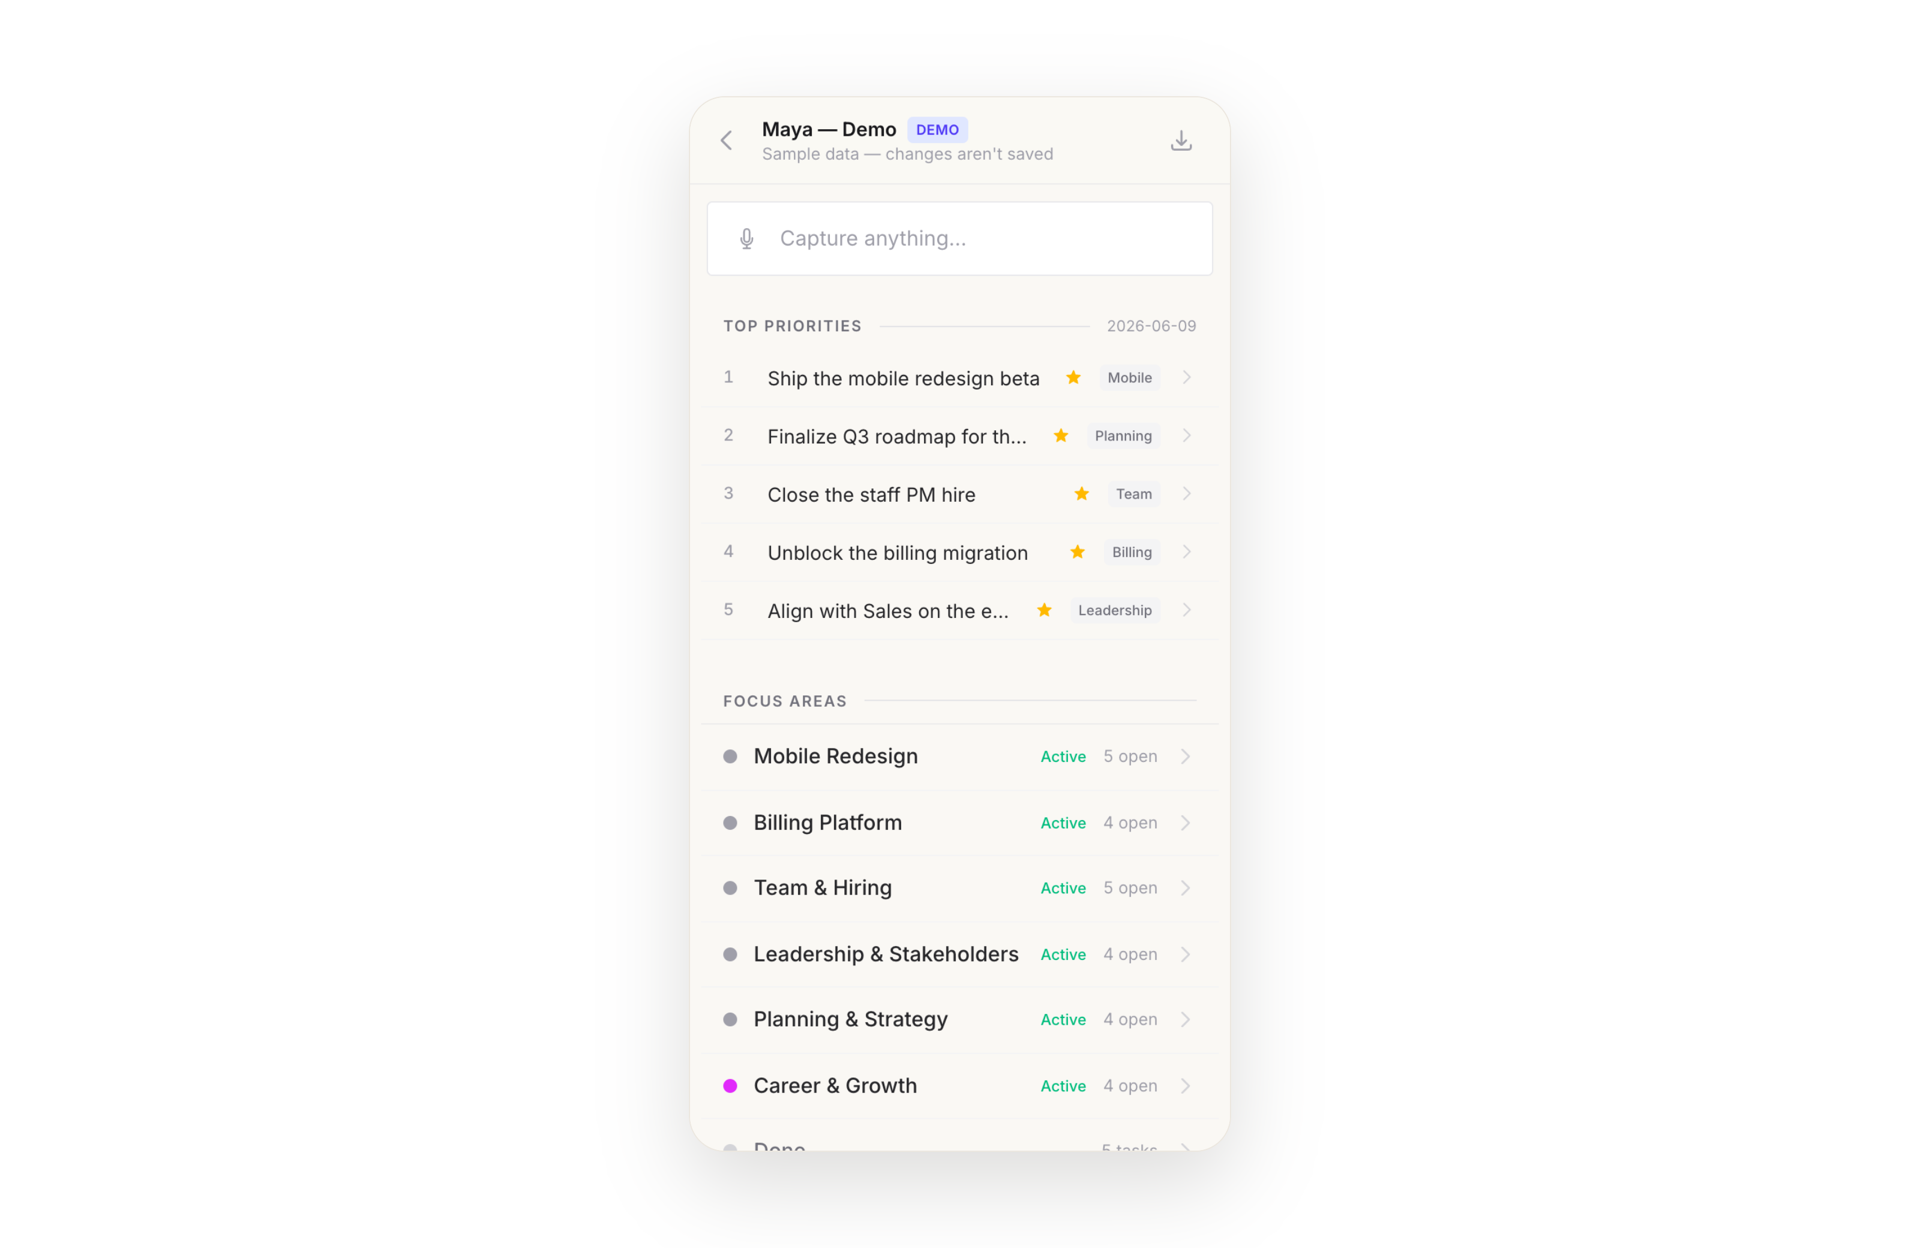
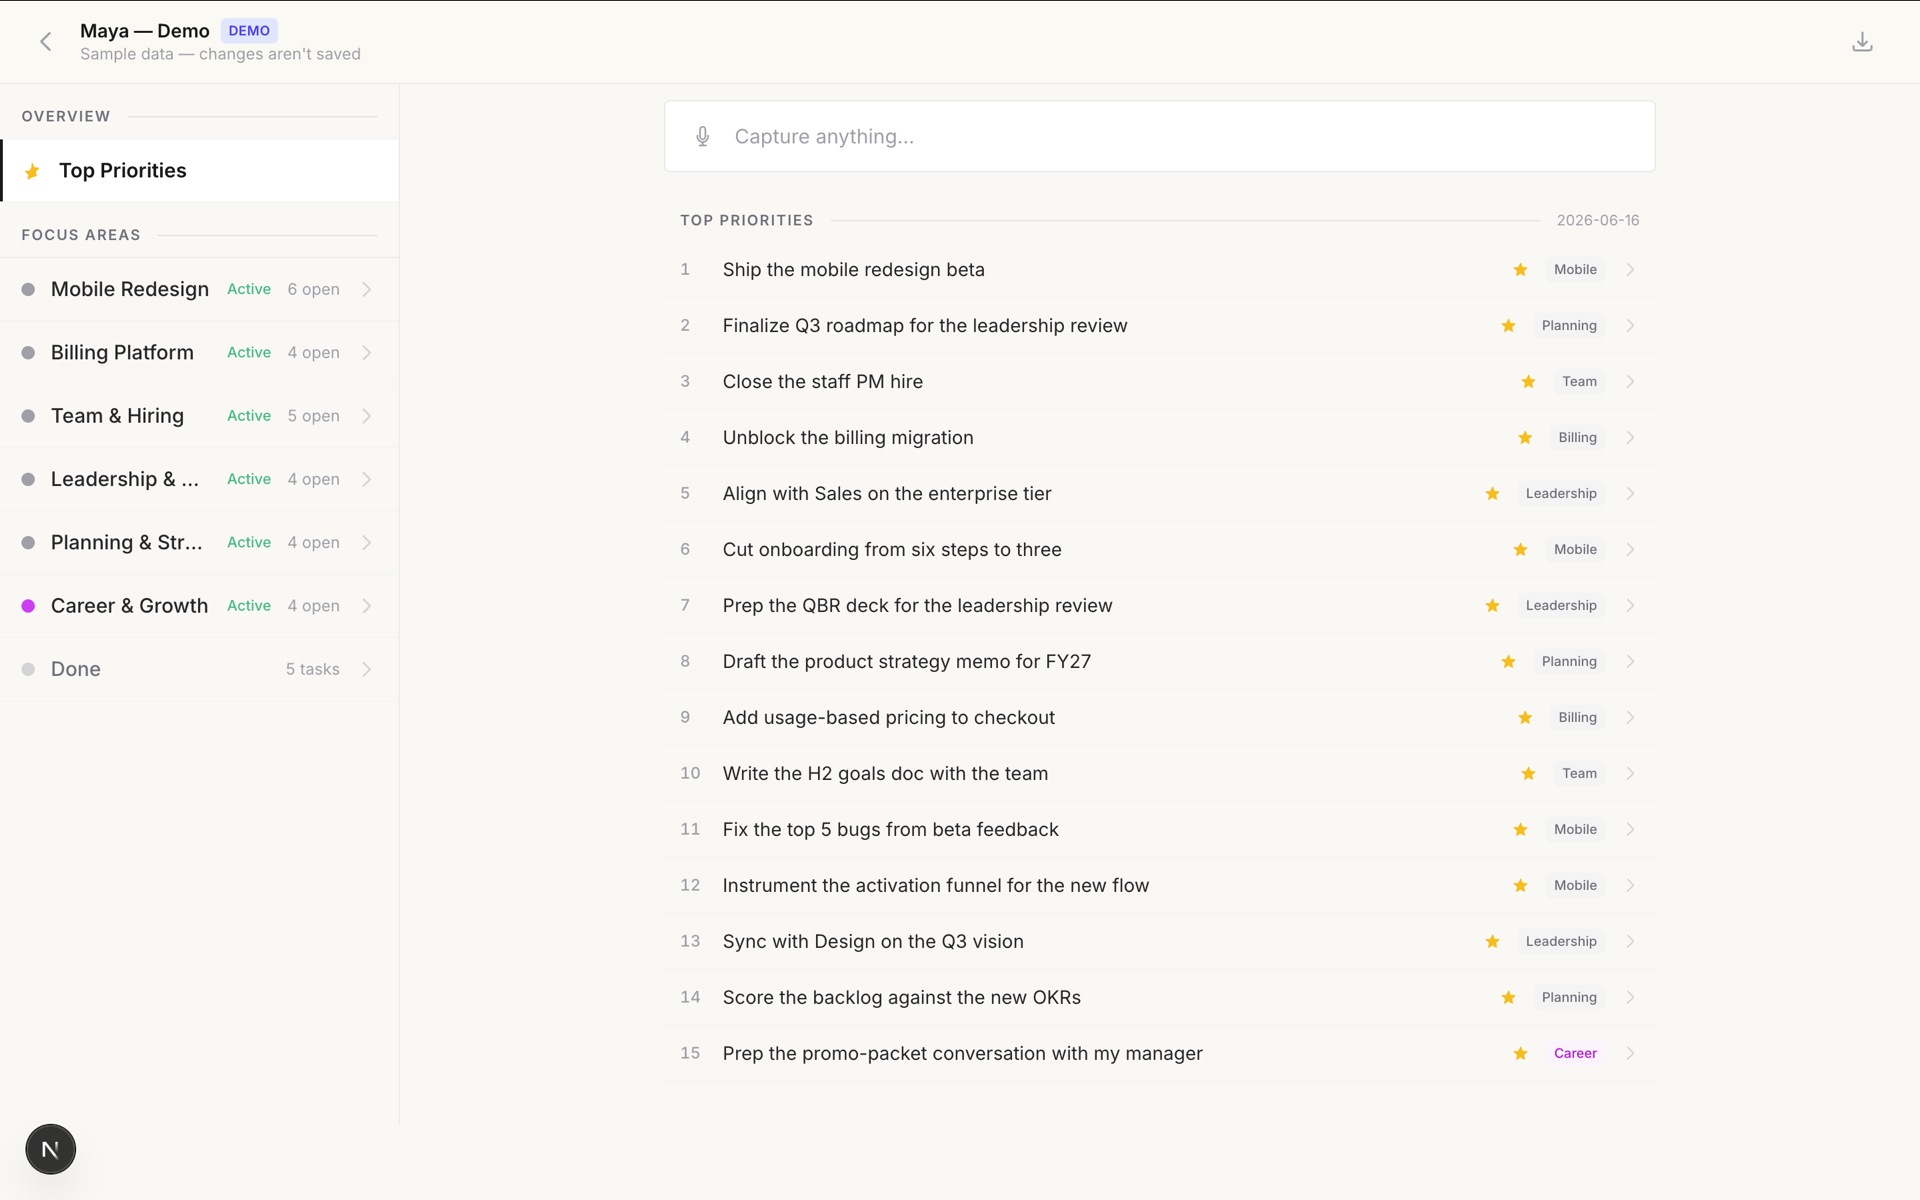
Use desktop screenshots for Helm; sharpen work-forward copy
Swap Helm to two desktop shots (Top Priorities command center as hero,
Update-with-AI action sheet for the AI item); drop the mobile and old desktop
images and make the other "what we did" items text-only. Re-angle copy to lead
with the desktop layout and the work use case (personal-scale software, phone
and desktop, screen-agnostic status).

diff --git a/src/data/caseStudies.ts b/src/data/caseStudies.ts
@@ -399,34 +399,28 @@ export const caseStudies: CaseStudy[] = [
     category: "recent",
     heroImage: "/case-studies/helm/hero.png",
     heroImageAlt:
-      "The Helm dashboard: a ranked top-priorities list (ship the redesign beta, the Q3 roadmap, a staff PM hire) blended across work focus areas.",
+      "Helm's desktop command center: a focus-area sidebar beside a ranked top-priorities list (ship the redesign beta, finalize the Q3 roadmap, close the staff PM hire, prep the QBR deck).",
     opportunity:
       "Every productivity tool ever made assumes a human clicking a UI. That assumption is about to break. The moment you want an agent to actually do the work, plan the week, file the note, reorganize the project, the tool becomes the bottleneck: your data is trapped in a proprietary database, reachable only through a rate-limited API the agent has to be taught. The thing that should make delegation easy is the thing standing in the way. The format your work lives in was chosen for the app's benefit, not yours.",
     thesis:
-      "The next generation of personal software will be written for the human and their agents jointly, and the unlock is the substrate. Put your work, your projects, your priorities in a plain markdown file you own, version-controlled in git, and the hard parts get easy. An agent can load the whole thing into one context window, reason across all of it at once, edit it like prose, and commit the change back, no integration required, because text in git is already an agent's native format.\n\nThat inverts the usual model. The defensible thing isn't \"everything in one place,\" it's that the brain is a file you own and the app is just one replaceable view of it. At this scale you don't need a database at all: the context window replaces the query. Lose the app, fork it, or swap it for the next one, and nothing is lost, because the brain was never in the app to begin with.",
+      "The next generation of personal-scale software will be written for the human and their agents jointly, and the unlock is the substrate. Put your work, your projects, your priorities in a plain markdown file you own, version-controlled in git, and the hard parts get easy. An agent can load the whole thing into one context window, reason across all of it at once, edit it like prose, and commit the change back, no integration required, because text in git is already an agent's native format.\n\nThat inverts the usual model. The defensible thing isn't \"everything in one place,\" it's that the brain is a file you own and the app is just one replaceable view of it. At this scale you don't need a database at all: the context window replaces the query. Lose the app, fork it, or swap it for the next one, and nothing is lost, because the brain was never in the app to begin with.",
     whatWeDid: {
-      lead: "Built the whole system: the markdown engine that reads and rewrites the file, the mobile-first dashboard, the AI layer for capture and edits, the GitHub sync, and offline support. The product runs as the way we actually keep the studio and everything around it on the rails, every day, from a phone.",
+      lead: "Built the whole system: the markdown engine that reads and rewrites the file, the dashboard on both phone and desktop, the AI layer for capture and edits, the GitHub sync, and offline support. It's how we actually keep the studio and everything around it on the rails, every day.",
       items: [
         {
           label: "The file is the product. The app is a view.",
           description: "Your work lives in one markdown file in your own GitHub repo. Helm parses it into a dashboard, and every action you take, checking a task, starring a priority, rewriting a line, becomes a precise edit committed straight back to the file. Git history is the audit trail. The app holds nothing the file doesn't.",
-          image: "/case-studies/helm/app-is-a-view.png",
-          imageAlt: "The Mobile Redesign focus area opened to its tasks, each tagged build, support, or grow, with one starred as a priority.",
-          caption: "Open a focus area, like a product redesign, and the same file becomes a working backlog. The dashboard, the priorities, the drill-in are all views of one document.",
         },
         {
           label: "The same file, on every screen.",
-          description: "Because the brain is just text, the view can be whatever the moment calls for. On a phone it's a single focused column you thumb through between meetings. On a desktop it opens into a two-pane command center, focus areas down the side and the work in front of you, with no second codebase and no separate data model. Same file, same edits, a layout that fits the screen.",
-          image: "/case-studies/helm/desktop.png",
-          imageAlt: "Helm's desktop layout: a left sidebar of focus areas beside a main pane showing the ranked Top Priorities.",
-          caption: "One markdown file, rendered as a focused phone column or a full desktop command center. The view bends to the screen; the brain never changes.",
+          description: "Because the brain is just text, the view can be whatever the moment calls for. On a desktop it opens into a two-pane command center, focus areas down the side and the work in front of you. On a phone it collapses to a single focused column you thumb through between meetings. Same file, same edits, no second codebase and no separate data model, just a layout that fits the screen.",
         },
         {
           label: "AI that edits prose, not a database.",
           description: "Capture a thought in plain language and Claude decides where it belongs and how to format it. Speak an update and it becomes a structured edit: complete, star, rewrite, move. Ask a question and it finds the right section and answers. Every call returns constrained, structured output rather than freeform text, so the model proposes edits and the file stays clean.",
           image: "/case-studies/helm/ai-edits.png",
-          imageAlt: "Capturing a task in plain language on the left (prep the QBR deck before Thursday); an action sheet with an Update with AI option on the right.",
-          caption: "Capture in plain language (prep the QBR deck before Thursday); tap any line and Update with AI turns intent into a clean, structured edit.",
+          imageAlt: "An action sheet on the task Ship the mobile redesign beta, offering Done, Unstar, and Update with AI.",
+          caption: "Tap any line and Update with AI turns plain-language intent (prep the QBR deck before Thursday) into a clean, structured edit to the file.",
         },
         {
           label: "Built to keep up anywhere.",
@@ -492,7 +486,7 @@ export const caseStudies: CaseStudy[] = [
       "Owning the file changes your relationship with the tool. The app becomes disposable in the best way: lose it, fork it, or replace it, and the brain is still yours, still just text.",
     ],
     status: [
-      "In daily use on mobile, as the way we actually run the studio and everything around it. Built by Madrona Product Studio, and in active development.",
+      "In daily use as the way we actually run the studio and everything around it. Built by Madrona Product Studio, and in active development.",
       "What comes next is making the markdown substrate invisible enough that someone who has never opened a .md file still gets the benefit, and opening the same brain to more surfaces and more agents.",
       "~~The app is disposable. The brain is yours.~~",
     ],
